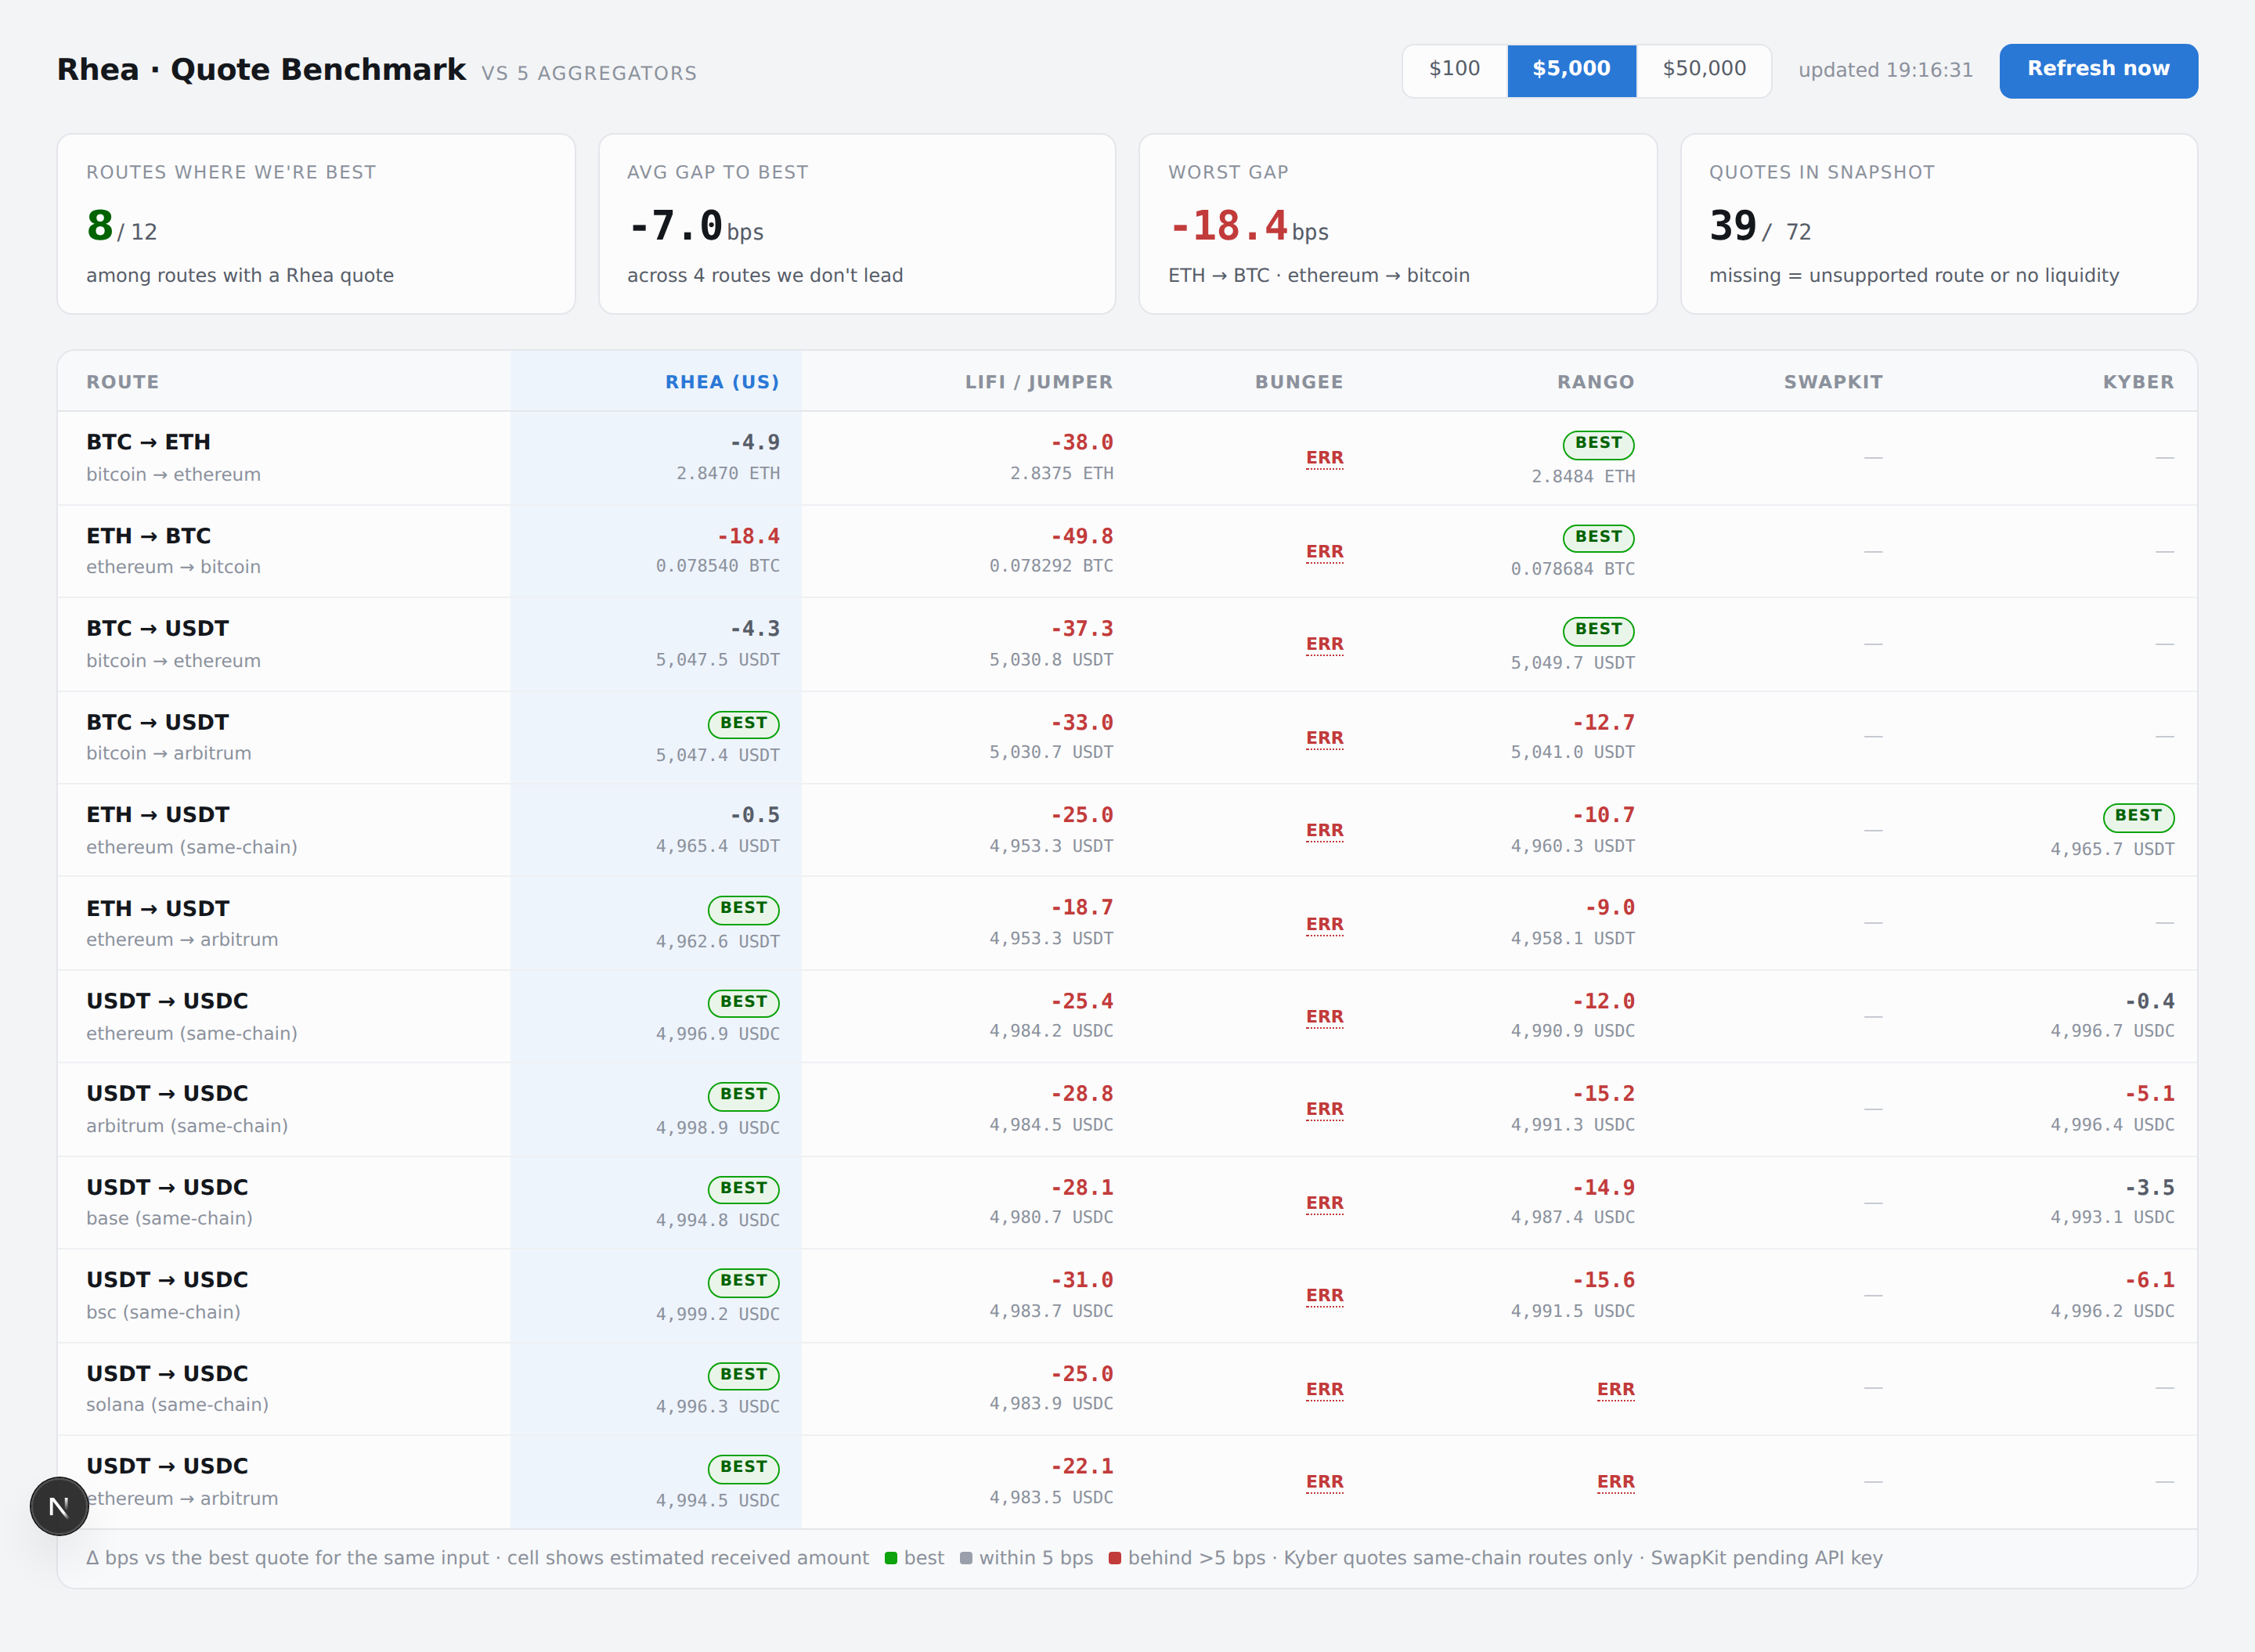
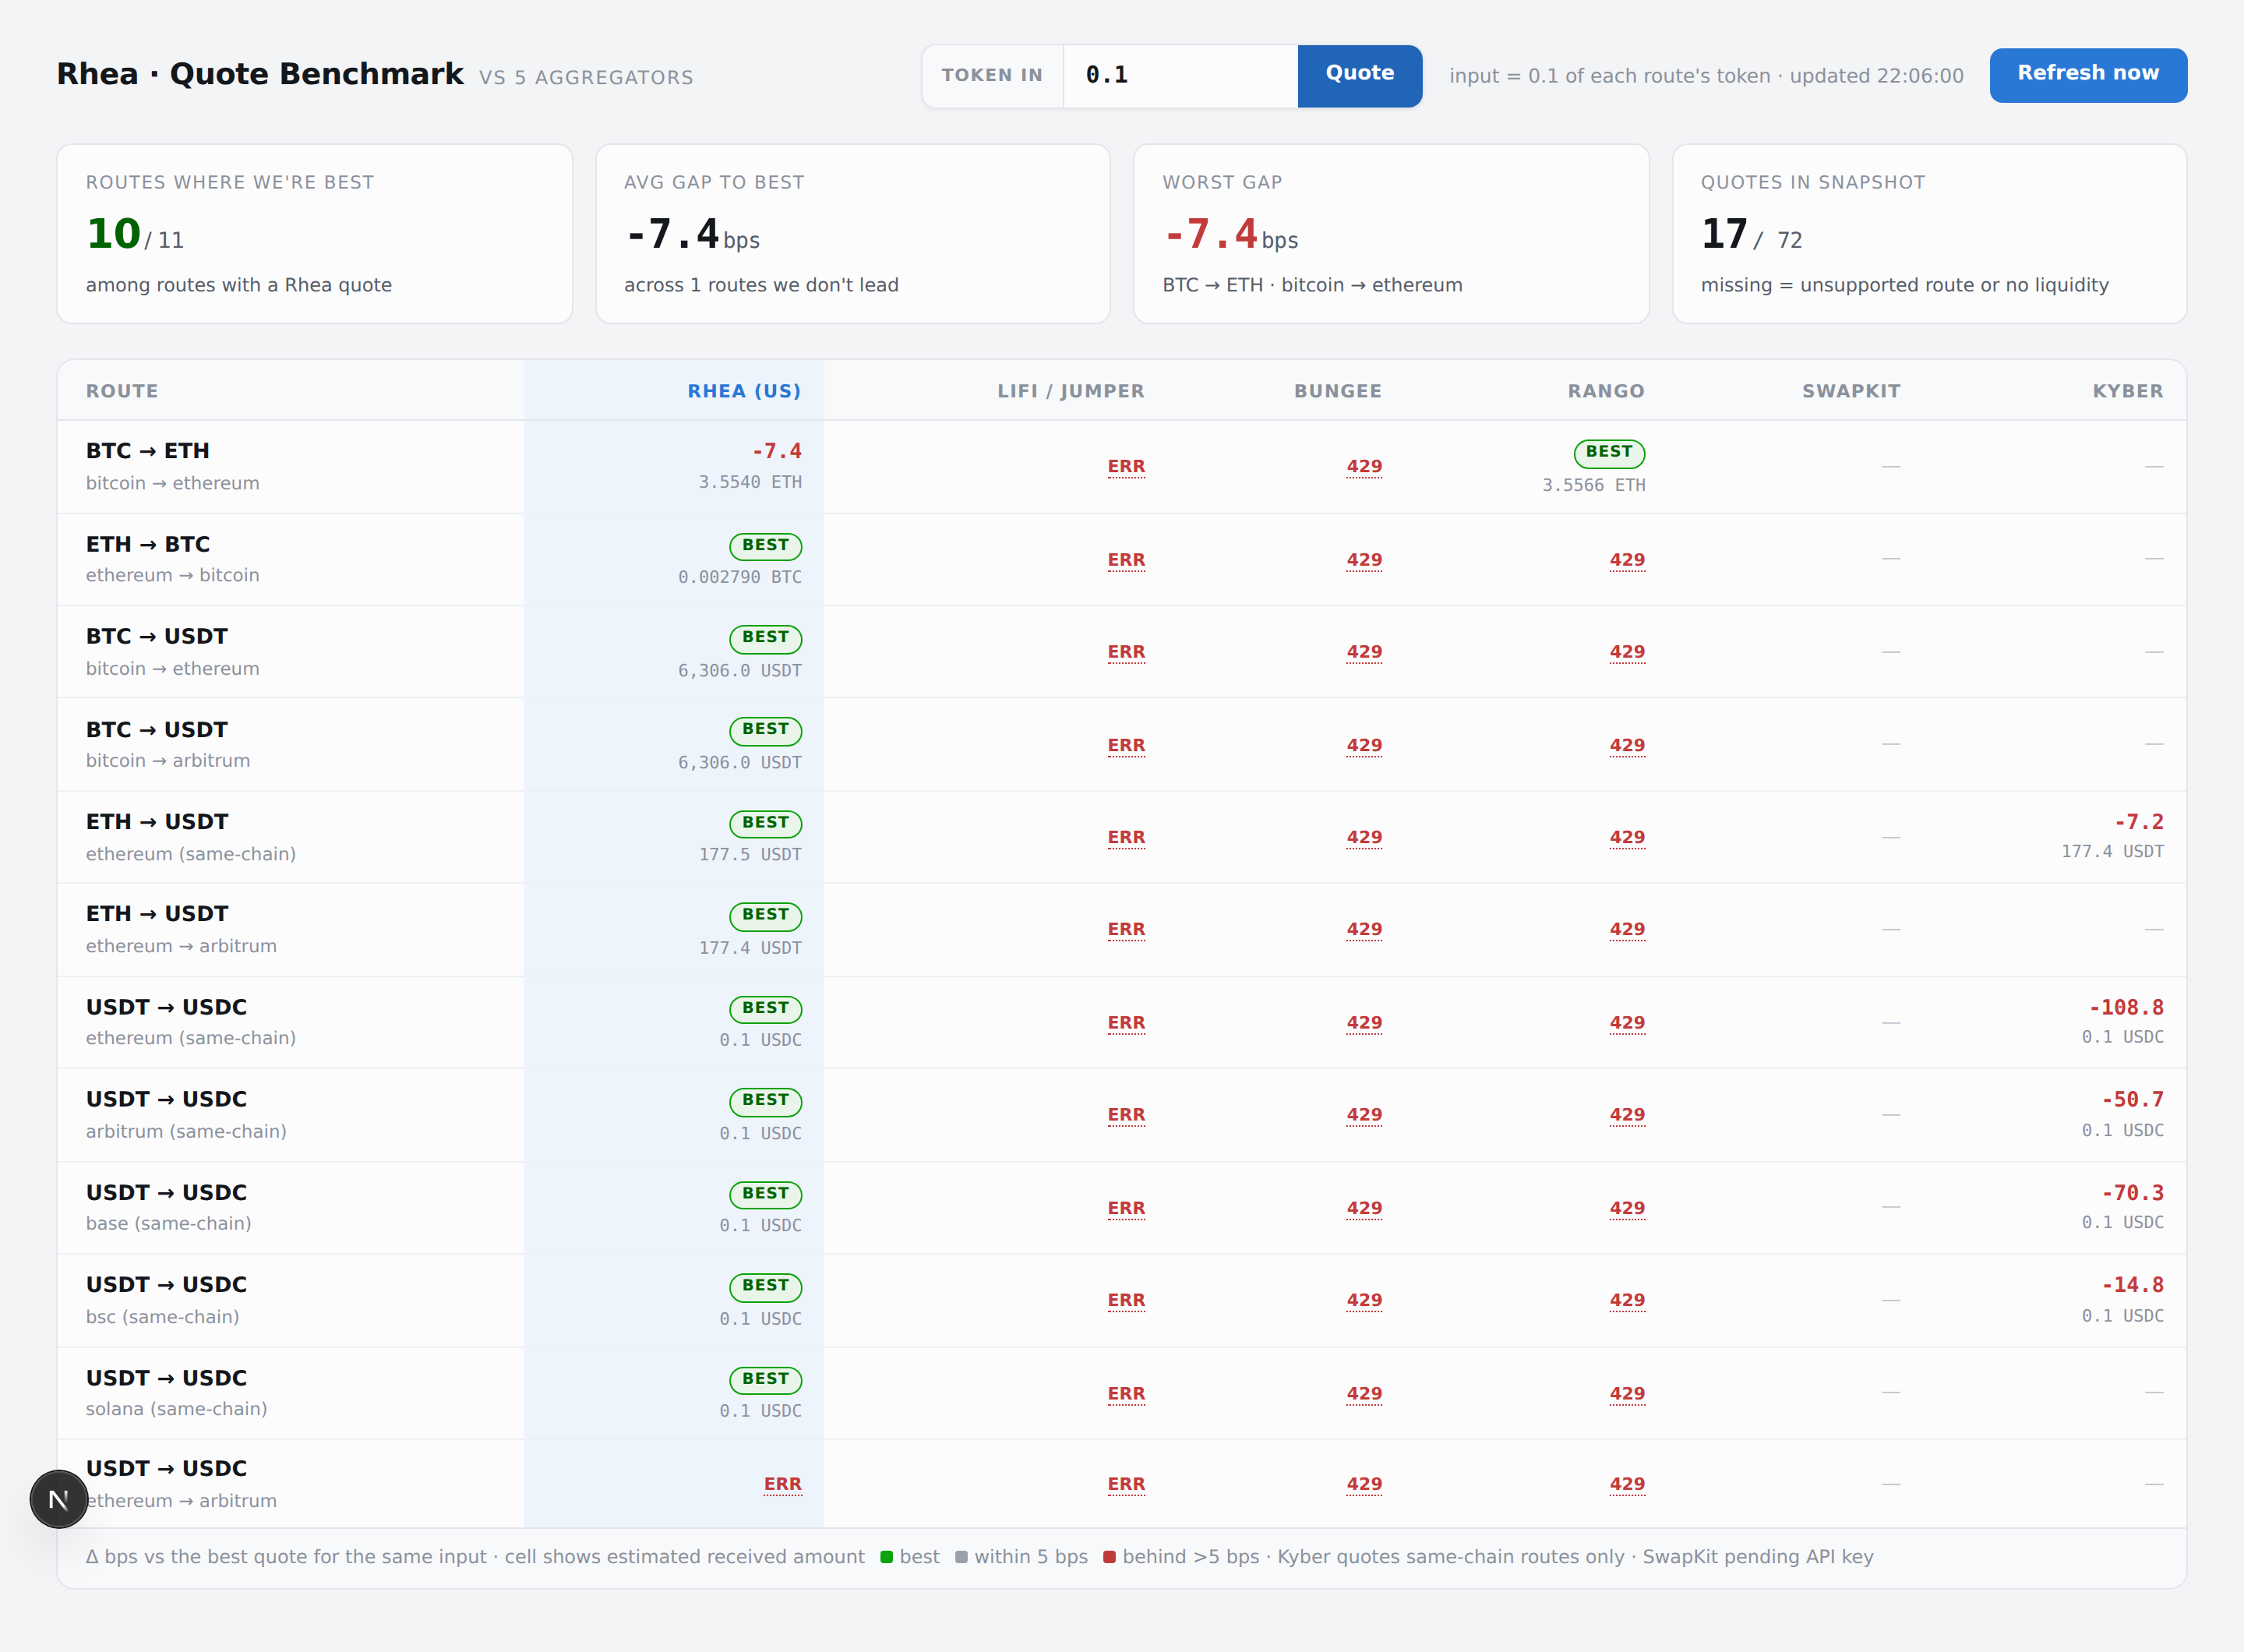
replace preset tiers with token-in amount input, align lifi order with jumper

diff --git a/src/pages/index.tsx b/src/pages/index.tsx
@@ -1,6 +1,8 @@
 import Head from "next/head";
 import { useCallback, useEffect, useRef, useState } from "react";
-import { ROUTES, TIERS } from "@/lib/compare/config";
+import { ROUTES } from "@/lib/compare/config";
+
+const DEFAULT_AMOUNT = "1";
 import type { CompareResult, ProviderKey, ProviderQuote, RouteDef } from "@/lib/compare/types";
 
 const PROVIDER_COLS: Array<{ key: ProviderKey; label: string }> = [
@@ -28,7 +30,7 @@ type RowState = CompareResult | "loading" | undefined;
 /** short on-cell reason so failures are diagnosable without hovering */
 function errLabel(e?: string): string {
   if (!e) return "ERR";
-  if (/429/.test(e)) return "429";
+  if (/429|rate limit|too many/i.test(e)) return "429";
   if (/no route|no liquidity/i.test(e)) return "no route";
   if (/timeout|abort/i.test(e)) return "timeout";
   return "ERR";
@@ -53,26 +55,26 @@ function cellView(row: CompareResult | undefined, key: ProviderKey): CellView {
 }
 
 export default function Home() {
-  const [tier, setTier] = useState(1);
-  const [customAmt, setCustomAmt] = useState("");
-  const [activeAmt, setActiveAmt] = useState<string | null>(null); // null = preset tiers
+  const [amtInput, setAmtInput] = useState(DEFAULT_AMOUNT);
+  const [activeAmt, setActiveAmt] = useState(DEFAULT_AMOUNT); // amount behind the current table
   const [rows, setRows] = useState<Record<string, RowState>>({});
   const [running, setRunning] = useState(false);
   const [updatedAt, setUpdatedAt] = useState<string | null>(null);
   const runId = useRef(0);
 
-  const refresh = useCallback(async (tierNow: number, amount: string | null = null) => {
+  const refresh = useCallback(async (amount: string) => {
     const id = ++runId.current;
     setRunning(true);
     setRows(Object.fromEntries(ROUTES.map((r) => [r.id, "loading" as const])));
 
     // small concurrency to stay friendly with everyone's rate limits
     const queue = [...ROUTES];
-    const amountParam = amount ? `&amount=${encodeURIComponent(amount)}` : "";
     const worker = async () => {
       for (let r = queue.shift(); r; r = queue.shift()) {
         try {
-          const res = await fetch(`/api/compare?route=${r.id}&tier=${tierNow}${amountParam}`);
+          const res = await fetch(
+            `/api/compare?route=${r.id}&amount=${encodeURIComponent(amount)}`,
+          );
           const data: CompareResult = await res.json();
           if (runId.current !== id) return;
           setRows((prev) => ({ ...prev, [r.id]: data }));
@@ -90,22 +92,16 @@ export default function Home() {
   }, []);
 
   useEffect(() => {
-    const t = setTimeout(() => refresh(1), 0); // initial load, deferred out of the effect body
+    // initial load, deferred out of the effect body
+    const t = setTimeout(() => refresh(DEFAULT_AMOUNT), 0);
     return () => clearTimeout(t);
   }, [refresh]);
 
-  const switchTier = (t: number) => {
-    if (running || (t === tier && activeAmt === null)) return;
-    setTier(t);
-    setActiveAmt(null);
-    refresh(t);
-  };
-
-  const customValid = /^\d{1,12}(\.\d{1,18})?$/.test(customAmt) && Number(customAmt) > 0;
-  const quoteCustom = () => {
-    if (running || !customValid) return;
-    setActiveAmt(customAmt);
-    refresh(tier, customAmt);
+  const amtValid = /^\d{1,12}(\.\d{1,18})?$/.test(amtInput) && Number(amtInput) > 0;
+  const quote = () => {
+    if (running || !amtValid) return;
+    setActiveAmt(amtInput);
+    refresh(amtInput);
   };
 
   // ---- stat tiles ----
@@ -139,36 +135,29 @@ export default function Home() {
             <span>vs 5 aggregators</span>
           </div>
           <div className="bench-spacer" />
-          <div className="seg">
-            {TIERS.map((t, i) => (
-              <button
-                key={t.label}
-                className={i === tier && activeAmt === null ? "on" : ""}
-                disabled={running}
-                onClick={() => switchTier(i)}
-              >
-                {t.label}
-              </button>
-            ))}
-          </div>
-          <div className={`amt-form ${activeAmt !== null ? "on" : ""}`}>
+          <div className={`amt-form ${amtValid ? "" : "invalid"}`}>
+            <span className="amt-label">Token in</span>
             <input
-              value={customAmt}
+              value={amtInput}
               disabled={running}
-              placeholder="custom amount"
-              onChange={(e) => setCustomAmt(e.target.value.trim())}
-              onKeyDown={(e) => e.key === "Enter" && quoteCustom()}
+              inputMode="decimal"
+              placeholder="e.g. 0.1"
+              onChange={(e) => setAmtInput(e.target.value.trim())}
+              onKeyDown={(e) => e.key === "Enter" && quote()}
               title="amount of each route's input token (BTC routes get this many BTC, USDT routes this many USDT, …)"
             />
-            <button disabled={running || !customValid} onClick={quoteCustom}>
+            <button disabled={running || !amtValid} onClick={quote}>
               Quote
             </button>
           </div>
           <div className="stamp">
-            {activeAmt !== null && !running ? `input = ${activeAmt} of each route's token · ` : ""}
-            {running ? "fetching live quotes…" : updatedAt ? `updated ${updatedAt}` : ""}
+            {running
+              ? "fetching live quotes…"
+              : updatedAt
+                ? `input = ${activeAmt} of each route's token · updated ${updatedAt}`
+                : ""}
           </div>
-          <button className="refresh-btn" disabled={running} onClick={() => refresh(tier)}>
+          <button className="refresh-btn" disabled={running} onClick={() => refresh(activeAmt)}>
             {running ? "Refreshing…" : "Refresh now"}
           </button>
         </div>

diff --git a/src/styles/globals.css b/src/styles/globals.css
@@ -34,23 +34,20 @@ body {
 .bench-logo b { font-size: 19px; letter-spacing: -0.2px; }
 .bench-logo span { font-size: 12px; color: var(--muted); text-transform: uppercase; letter-spacing: 0.08em; }
 .bench-spacer { flex: 1; }
-.seg { display: flex; border: 1px solid var(--line); background: var(--surface); border-radius: 8px; overflow: hidden; }
-.seg button { padding: 7px 16px; font-size: 13px; color: var(--ink2); border-right: 1px solid var(--line); cursor: pointer; background: none; }
-.seg button:last-child { border-right: 0; }
-.seg button.on { background: var(--accent); color: #fff; font-weight: 600; }
-.seg button:disabled { cursor: default; opacity: 0.6; }
 .stamp { font-size: 12.5px; color: var(--muted); }
 .refresh-btn { background: var(--accent); color: #fff; font-size: 13px; font-weight: 600; padding: 8px 18px; border-radius: 8px; cursor: pointer; }
 .refresh-btn:disabled { opacity: 0.5; cursor: default; }
 
-/* custom amount */
-.amt-form { display: flex; border: 1px solid var(--line); background: var(--surface); border-radius: 8px; overflow: hidden; }
-.amt-form.on { border-color: var(--accent); }
-.amt-form input { width: 130px; padding: 7px 12px; font-size: 13px; color: var(--ink); background: none; outline: none; }
-.amt-form input::placeholder { color: var(--muted); }
-.amt-form button { padding: 7px 14px; font-size: 13px; font-weight: 600; color: var(--accent); border-left: 1px solid var(--line); cursor: pointer; background: none; }
-.amt-form.on button { background: var(--accent); color: #fff; }
-.amt-form button:disabled { color: var(--muted); cursor: default; background: none; }
+/* token-in amount */
+.amt-form { display: flex; align-items: stretch; border: 1px solid var(--line); background: var(--surface); border-radius: 10px; overflow: hidden; box-shadow: 0 1px 2px rgba(20, 23, 28, 0.05); transition: border-color 0.15s, box-shadow 0.15s; }
+.amt-form:focus-within { border-color: var(--accent); box-shadow: 0 0 0 3px var(--accent-wash); }
+.amt-form.invalid:focus-within { border-color: var(--bad); box-shadow: 0 0 0 3px #f9ecec; }
+.amt-label { display: flex; align-items: center; padding: 0 12px; font-size: 11px; font-weight: 700; letter-spacing: 0.07em; text-transform: uppercase; color: var(--muted); background: #f8f9fa; border-right: 1px solid var(--line); }
+.amt-form input { width: 150px; padding: 9px 14px; font-size: 15px; font-weight: 600; color: var(--ink); background: none; outline: none; font-family: ui-monospace, "SF Mono", Menlo, Consolas, monospace; font-variant-numeric: tabular-nums; }
+.amt-form input::placeholder { color: #c2c6cd; font-weight: 400; }
+.amt-form button { padding: 0 18px; font-size: 13px; font-weight: 700; color: #fff; background: var(--accent); cursor: pointer; }
+.amt-form button:hover:not(:disabled) { background: #2065b8; }
+.amt-form button:disabled { background: #c2c6cd; cursor: default; }
 
 /* stat tiles */
 .tiles { display: grid; grid-template-columns: repeat(4, 1fr); gap: 14px; margin-bottom: 22px; }

diff --git a/src/pages/api/compare.ts b/src/pages/api/compare.ts
@@ -9,7 +9,7 @@ const cache = new Map<string, { at: number; promise: Promise<CompareResult> }>()
 
 export default async function handler(req: NextApiRequest, res: NextApiResponse) {
   const routeId = String(req.query.route ?? "");
-  const tier = Number(req.query.tier ?? 1);
+  const tier = Number(req.query.tier ?? 1); // legacy preset fallback when no amount given
 
   const route = ROUTES.find((r) => r.id === routeId);
   if (!route) return res.status(400).json({ error: `unknown route: ${routeId}` });

diff --git a/src/lib/compare/providers/lifi.ts b/src/lib/compare/providers/lifi.ts
@@ -33,6 +33,7 @@ export async function quoteLifi(req: QuoteRequest): Promise<ProviderQuote> {
     fromAddress: addressFor(route.from.chain),
     toAddress: addressFor(route.to.chain),
     integrator: "rhea-bench",
+    order: "CHEAPEST", // best received amount — matches what Jumper displays as 最佳报价
   });
 
   const headers: Record<string, string> = {};

diff --git a/README.md b/README.md
@@ -1,40 +1,31 @@
-This is a [Next.js](https://nextjs.org) project bootstrapped with [`create-next-app`](https://nextjs.org/docs/pages/api-reference/create-next-app).
+# Rhea · Quote Benchmark
 
-## Getting Started
+Compare Rhea swap quotes against LiFi/Jumper, Bungee(Socket), Rango, SwapKit and KyberSwap
+across bitcoin / ethereum / solana / arbitrum / base / bsc for the btc-eth, btc-usdt,
+eth-usdt and usdt-usdc pairs.
 
-First, run the development server:
+## Setup
 
 ```bash
-npm run dev
-# or
-yarn dev
-# or
+cp .env.example .env.local   # then fill in the keys (see comments inside)
+pnpm install
 pnpm dev
-# or
-bun dev
 ```
 
-Open [http://localhost:3000](http://localhost:3000) with your browser to see the result.
+Open http://localhost:3000, enter a token-in amount and hit Quote. The amount applies to
+each route's input token (BTC routes quote that many BTC, USDT routes that many USDT, …).
 
-You can start editing the page by modifying `pages/index.tsx`. The page auto-updates as you edit the file.
+**Without API keys most columns will show `429` after a couple of refreshes** — the
+keyless public endpoints have tiny shared rate limits. `RHEA_JWT` is required; the LiFi,
+Socket and Rango keys are free and lift the limits, see `.env.example`.
 
-[API routes](https://nextjs.org/docs/pages/building-your-application/routing/api-routes) can be accessed on [http://localhost:3000/api/hello](http://localhost:3000/api/hello). This endpoint can be edited in `pages/api/hello.ts`.
+## Layout
 
-The `pages/api` directory is mapped to `/api/*`. Files in this directory are treated as [API routes](https://nextjs.org/docs/pages/building-your-application/routing/api-routes) instead of React pages.
+- `src/lib/compare/config.ts` — chains, token addresses/decimals, route matrix
+- `src/lib/compare/providers/` — one adapter per provider (normalized quote interface)
+- `src/pages/api/compare.ts` — quotes all providers server-side, 60s cache
+- `src/pages/index.tsx` — the benchmark matrix page
 
-This project uses [`next/font`](https://nextjs.org/docs/pages/building-your-application/optimizing/fonts) to automatically optimize and load [Geist](https://vercel.com/font), a new font family for Vercel.
-
-## Learn More
-
-To learn more about Next.js, take a look at the following resources:
-
-- [Next.js Documentation](https://nextjs.org/docs) - learn about Next.js features and API.
-- [Learn Next.js](https://nextjs.org/learn-pages-router) - an interactive Next.js tutorial.
-
-You can check out [the Next.js GitHub repository](https://github.com/vercel/next.js) - your feedback and contributions are welcome!
-
-## Deploy on Vercel
-
-The easiest way to deploy your Next.js app is to use the [Vercel Platform](https://vercel.com/new?utm_medium=default-template&filter=next.js&utm_source=create-next-app&utm_campaign=create-next-app-readme) from the creators of Next.js.
-
-Check out our [Next.js deployment documentation](https://nextjs.org/docs/pages/building-your-application/deploying) for more details.
+Cells show Δbps vs the best quote for the same input; hover an error cell for the raw
+upstream message. Kyber only supports same-chain EVM routes; SwapKit stays "—" until its
+key is set.